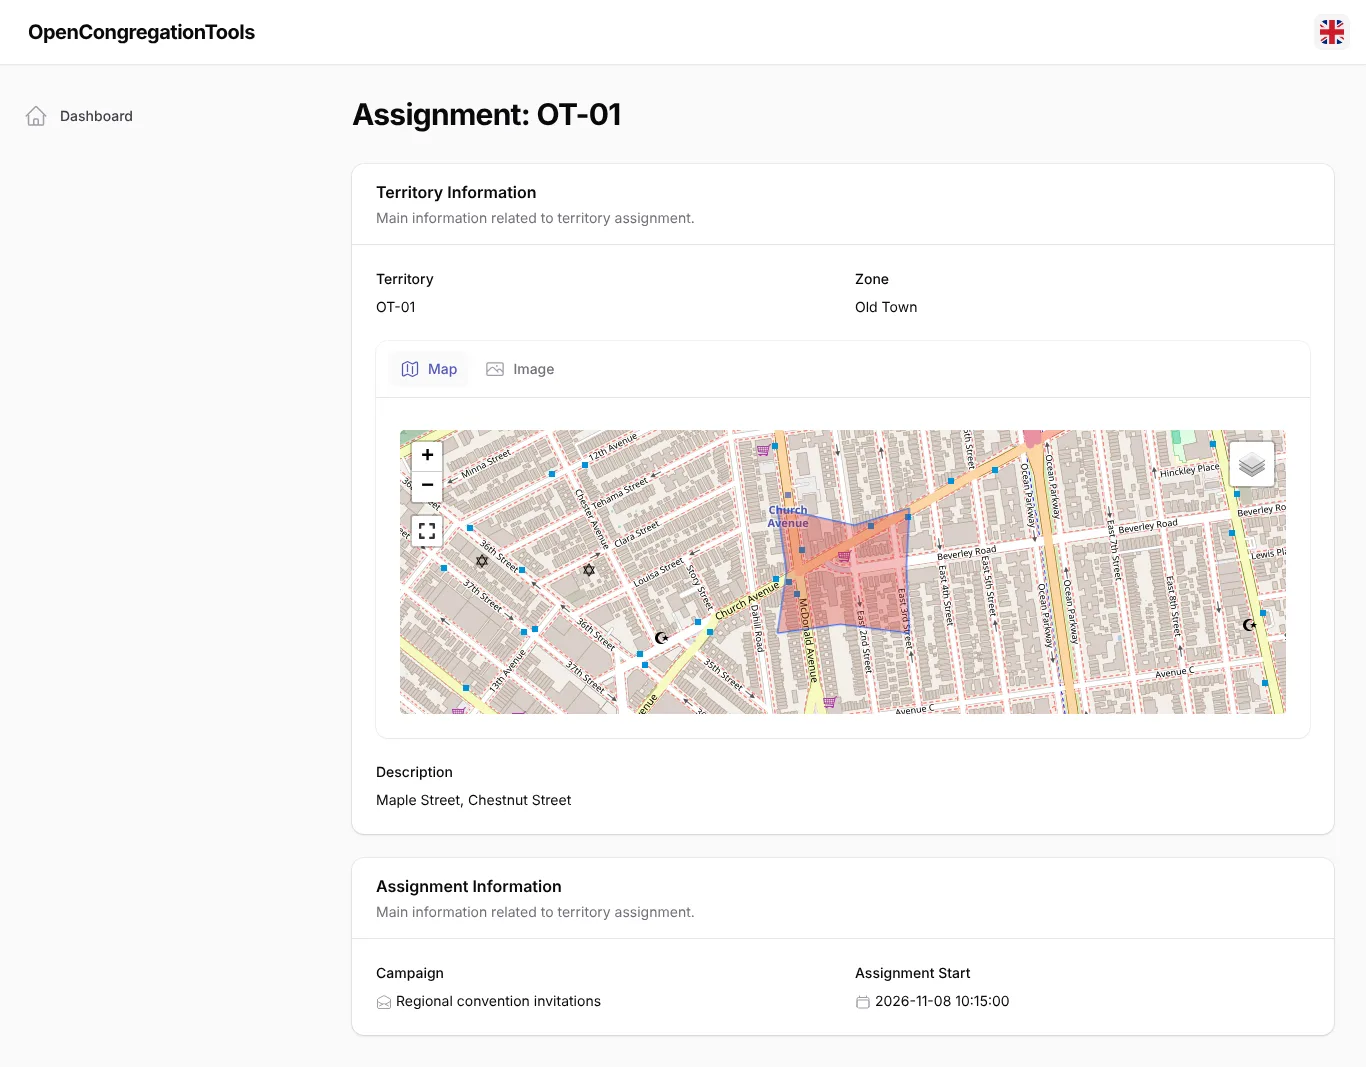
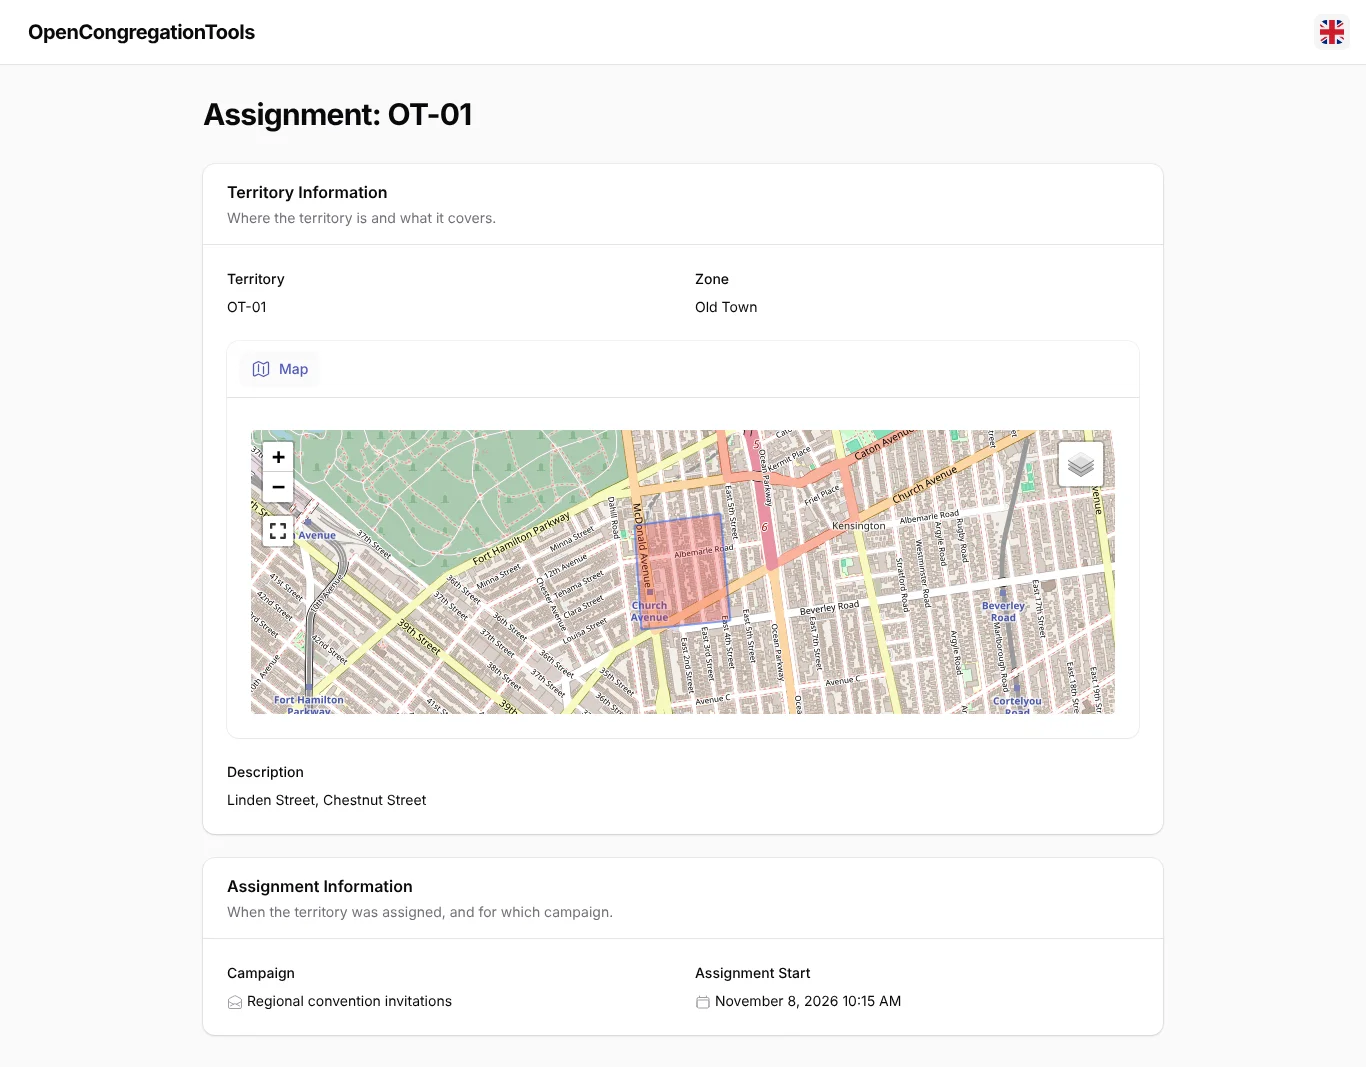
fix(sharing): tidy up the shared assignment page
Drop the guest panel navigation, show the assignment dates
localized in the app timezone and give each section its own
description. Refresh the shared page screenshots.

diff --git a/tests/Feature/SharedAssignmentPageTest.php b/tests/Feature/SharedAssignmentPageTest.php
@@ -5,6 +5,7 @@ use App\Models\Territory;
 use App\Models\TerritoryAssignment;
 use App\Models\TerritoryZone;
 use App\Models\User;
+use Illuminate\Support\Facades\Facade;
 use Illuminate\Support\Facades\Notification;
 
 beforeEach(function () {
@@ -28,6 +29,8 @@ beforeEach(function () {
 
     // Sharing loads the settings: forget them, so that they follow the configuration set by each test
     app()->forgetScopedInstances();
+    // The Filament manager is scoped too: let its facade resolve the new one, which the layout reads the panel from
+    Facade::clearResolvedInstance('filament');
 });
 
 test('shared assignment pages render with the built frontend assets', function () {
@@ -82,4 +85,40 @@ test('the crawlers can fetch the shared pages, so that they read that they must 
 
 test('the pages of the application can still be indexed', function () {
     $this->get('/')->assertHeaderMissing('X-Robots-Tag');
+});
+
+test('shared assignment pages have no navigation', function () {
+    $this->withoutVite();
+
+    $this->get('/guest/shared-assignment/'.$this->sharedUrl->uid)
+        ->assertOk()
+        ->assertSee('fi-panel-guest', escape: false)
+        ->assertDontSee('fi-sidebar-nav', escape: false);
+});
+
+test('shared assignment pages show the dates formatted with the locale and the timezone of the application', function () {
+    $this->withoutVite();
+    config(['app.timezone' => 'Europe/Rome']);
+
+    $startedAt = now('UTC')->subDays(3)->setTime(21, 45);
+    $this->assignment->update(['started_at' => $startedAt]);
+
+    $this->get('/guest/shared-assignment/'.$this->sharedUrl->uid)
+        ->assertOk()
+        ->assertSee($startedAt->copy()->setTimezone('Europe/Rome')->locale(app()->getLocale())->isoFormat('LLL'))
+        ->assertDontSee($startedAt->format('Y-m-d H:i:s'));
+});
+
+test('shared assignment pages describe each section differently', function () {
+    $this->withoutVite();
+
+    foreach (['en', 'it', 'es'] as $locale) {
+        expect(__('filament-resources.territory_assignment.section_territory_info_description', locale: $locale))
+            ->not->toBe(__('filament-resources.territory_assignment.section_assignment_info_description', locale: $locale));
+    }
+
+    $this->get('/guest/shared-assignment/'.$this->sharedUrl->uid)
+        ->assertOk()
+        ->assertSee(__('filament-resources.territory_assignment.section_territory_info_description'))
+        ->assertSee(__('filament-resources.territory_assignment.section_assignment_info_description'));
 });

diff --git a/app/Filament/Resources/TerritoryAssignments/TerritoryAssignmentResource.php b/app/Filament/Resources/TerritoryAssignments/TerritoryAssignmentResource.php
@@ -135,6 +135,14 @@ class TerritoryAssignmentResource extends Resource
     }
 
     /**
+     * Timezone of the dates shown: the one of the user, or the one of the application for the guests of a shared page.
+     */
+    public static function getDisplayTimezone(): string
+    {
+        return Auth::user()?->timezone ?? config('app.timezone');
+    }
+
+    /**
      * Personal data (assignee name, notes) is hidden on publicly shared pages
      * unless enabled from the Settings pages (or with `ENABLE_SHARED_PII`).
      */
@@ -380,10 +388,14 @@ class TerritoryAssignmentResource extends Resource
                             ->placeholder(__('filament-resources.territory_assignment.info_campaign_placeholder')),
                         TextEntry::make('started_at')
                             ->icon(Heroicon::OutlinedCalendar)
+                            ->isoDateTime()
+                            ->timezone(fn (): string => static::getDisplayTimezone())
                             ->sinceTooltip()
                             ->label(__('filament-resources.territory_assignment.info_start_assignment')),
                         TextEntry::make('ended_at')
                             ->icon(Heroicon::OutlinedCalendar)
+                            ->isoDateTime()
+                            ->timezone(fn (): string => static::getDisplayTimezone())
                             ->sinceTooltip()
                             ->visible(fn (Model $record) => $record->ended_at != null)
                             ->label(__('filament-resources.territory_assignment.info_end_assignment'))

diff --git a/lang/it/filament-resources.php b/lang/it/filament-resources.php
@@ -183,9 +183,9 @@ return [
         'model_label' => 'assegnazione',
         'plural_model_label' => 'assegnazioni',
         'section_territory_info' => 'Informazioni territorio',
-        'section_territory_info_description' => 'Informazioni principali relative all\'assegnazione del territorio.',
+        'section_territory_info_description' => 'Dove si trova il territorio e cosa comprende.',
         'section_assignment_info' => 'Informazioni assegnazione',
-        'section_assignment_info_description' => 'Informazioni principali relative all\'assegnazione del territorio.',
+        'section_assignment_info_description' => 'Quando è stato assegnato il territorio, e per quale campagna.',
         'section_base_info' => 'Informazioni base',
         'section_main_info' => 'Informazioni principali',
         'section_additional_info' => 'Informazioni aggiuntive',

diff --git a/lang/es/filament-resources.php b/lang/es/filament-resources.php
@@ -183,9 +183,9 @@ return [
         'model_label' => 'asignación',
         'plural_model_label' => 'asignaciones',
         'section_territory_info' => 'Información del Territorio',
-        'section_territory_info_description' => 'Información principal relacionada con la asignación del territorio.',
+        'section_territory_info_description' => 'Dónde está el territorio y qué abarca.',
         'section_assignment_info' => 'Información de Asignación',
-        'section_assignment_info_description' => 'Información principal relacionada con la asignación del territorio.',
+        'section_assignment_info_description' => 'Cuándo se asignó el territorio, y para qué campaña.',
         'section_base_info' => 'Información Base',
         'section_main_info' => 'Información Principal',
         'section_additional_info' => 'Información Adicional',

diff --git a/app/Filament/Guest/Pages/ViewSharedAssignment.php b/app/Filament/Guest/Pages/ViewSharedAssignment.php
@@ -12,6 +12,7 @@ use Filament\Infolists\Contracts\HasInfolists;
 use Filament\Pages\Page;
 use Filament\Panel;
 use Filament\Schemas\Schema;
+use Filament\Support\Enums\Width;
 use Filament\Support\Icons\Heroicon;
 
 class ViewSharedAssignment extends Page implements HasInfolists
@@ -66,6 +67,14 @@ class ViewSharedAssignment extends Page implements HasInfolists
     public function assignmentInfolist(Schema $schema): Schema
     {
         return TerritoryAssignmentResource::infolist($schema)->record($this->assignment);
+    }
+
+    /**
+     * Narrower than the pages of the application, which have a sidebar beside them: easier to read on a wide screen.
+     */
+    public function getMaxContentWidth(): Width
+    {
+        return Width::FiveExtraLarge;
     }
 
     public static function getRoutePath(Panel $panel): string

diff --git a/lang/en/filament-resources.php b/lang/en/filament-resources.php
@@ -183,9 +183,9 @@ return [
         'model_label' => 'assignment',
         'plural_model_label' => 'assignments',
         'section_territory_info' => 'Territory Information',
-        'section_territory_info_description' => 'Main information related to territory assignment.',
+        'section_territory_info_description' => 'Where the territory is and what it covers.',
         'section_assignment_info' => 'Assignment Information',
-        'section_assignment_info_description' => 'Main information related to territory assignment.',
+        'section_assignment_info_description' => 'When the territory was assigned, and for which campaign.',
         'section_base_info' => 'Base Information',
         'section_main_info' => 'Main Information',
         'section_additional_info' => 'Additional Information',

diff --git a/app/Providers/Filament/GuestPanelProvider.php b/app/Providers/Filament/GuestPanelProvider.php
@@ -34,6 +34,8 @@ class GuestPanelProvider extends PanelProvider
                 'primary' => Color::Amber,
             ])
             ->themeSwitcher(false)
+            // The panel only hosts the pages opened from share links: a sidebar would have nothing useful to offer
+            ->navigation(false)
             // ->resources([
             //     // Resources can be added here if needed
             // ])
